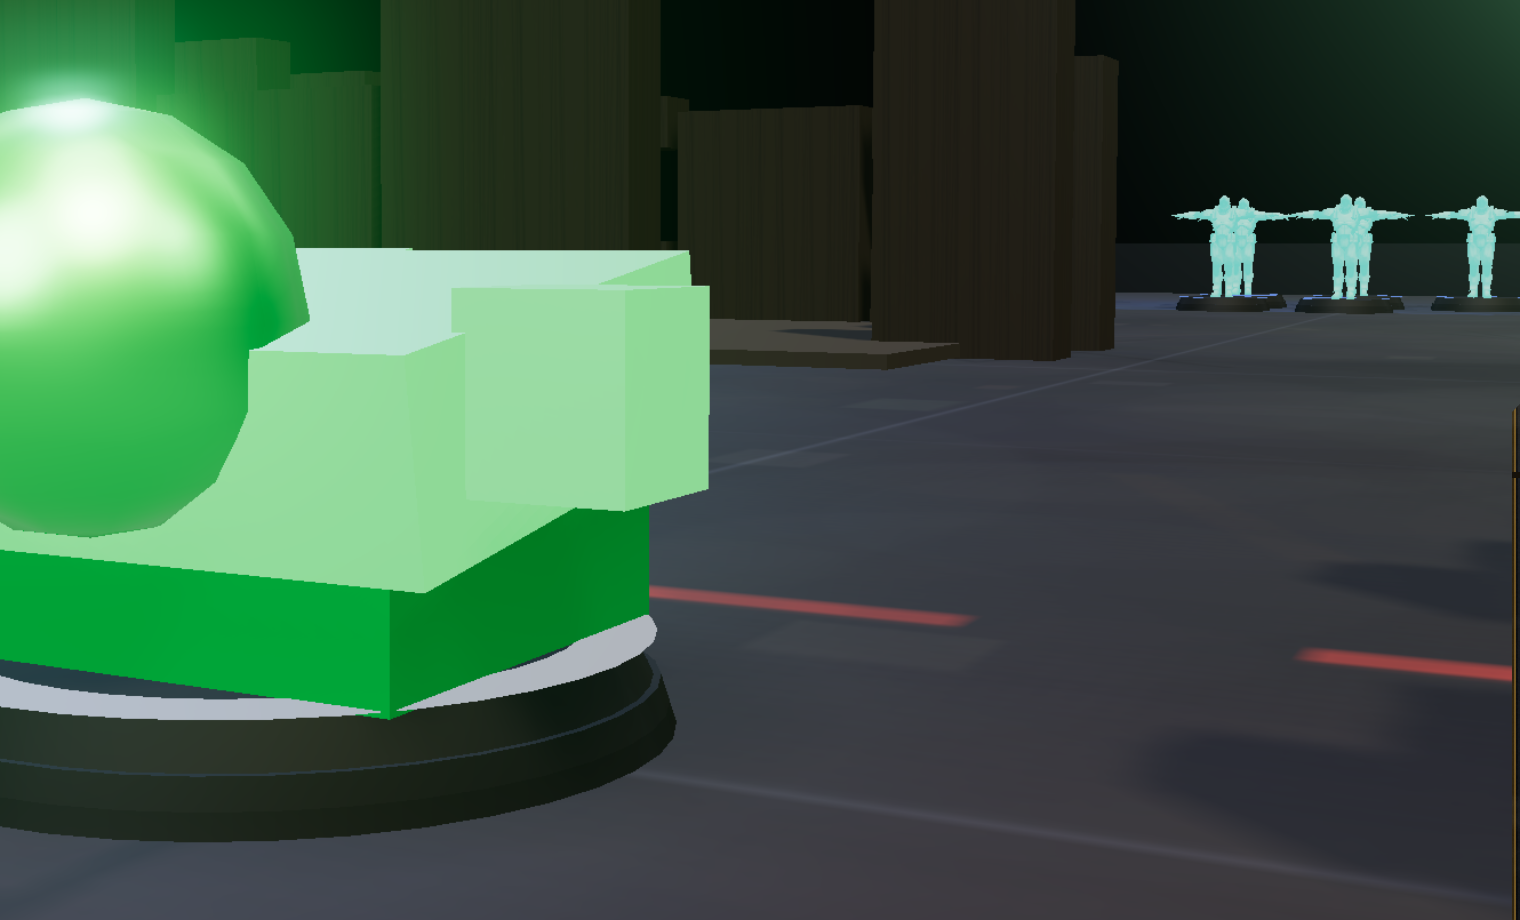
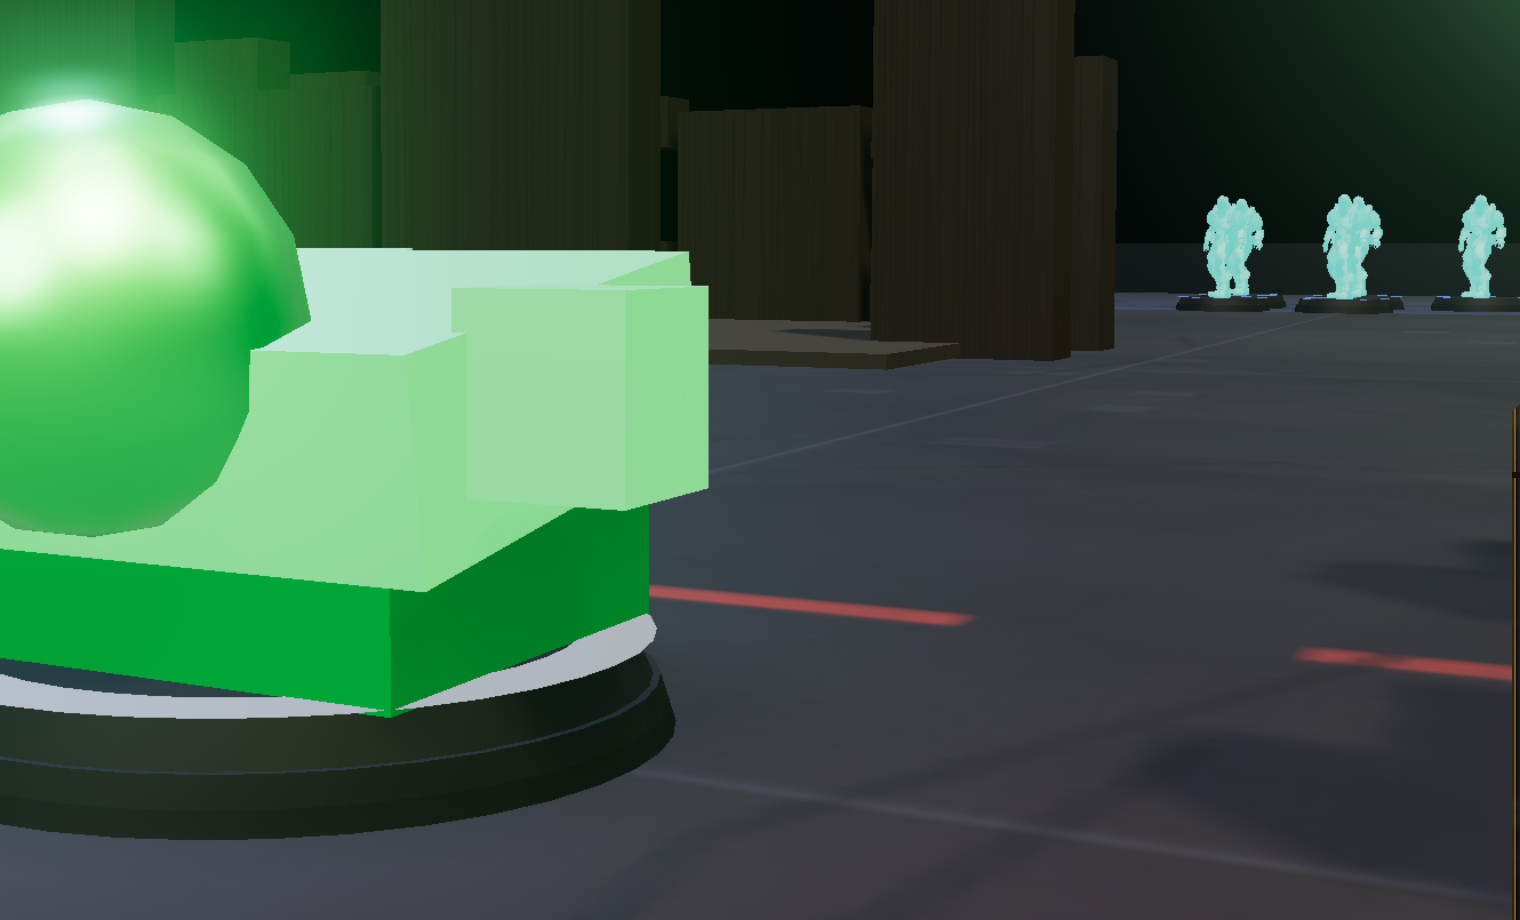
Add subtle perpetual idle animation to model figures (fixes T-pose, adds life)
Per-clone AnimationMixers play an idle clip (time-offset per model), updated from
the render loop; figures now stand/breathe naturally instead of bind-pose T.
Cleaned up on dispose.

Claude-Session: https://claude.ai/code/session_017cP5UXbtBHAKPfxjZDVjCB

diff --git a/src/render/ModelRegistry.ts b/src/render/ModelRegistry.ts
@@ -103,6 +103,19 @@ interface Template {
 export class ModelLibrary {
   private loader = new GLTFLoader();
   private cache = new Map<string, Promise<Template>>();
+  /** Live per-clone mixers driving a subtle idle so figures aren't static T-poses. */
+  private mixers: THREE.AnimationMixer[] = [];
+
+  /** Advance all idle animations; call once per frame from the render loop. */
+  update(dt: number): void {
+    for (const m of this.mixers) m.update(dt);
+  }
+
+  /** Stop & drop all idle mixers (called on scene dispose). */
+  dispose(): void {
+    for (const m of this.mixers) m.stopAllAction();
+    this.mixers.length = 0;
+  }
 
   /**
    * Load (or reuse) the template scene for a URL. The returned object is the
@@ -155,15 +168,16 @@ export class ModelLibrary {
     this.loadTemplate(url)
       .then((template) => {
         const clone = skeletonClone(template.root) as THREE.Object3D;
-        // Pose this clone into a natural idle stance (sample one frame), then
-        // discard the mixer — the bones hold the pose and stay fully static.
+        // Drive a subtle, perpetual idle so figures read as living miniatures
+        // instead of stiff T-poses. Each clone gets its own mixer, offset in
+        // time so a squad doesn't breathe in lockstep. Updated from the render
+        // loop via ModelLibrary.update().
         if (template.poseClip) {
           try {
             const mixer = new THREE.AnimationMixer(clone);
             mixer.clipAction(template.poseClip).play();
-            mixer.update(0.4);
-            mixer.stopAllAction();
-            clone.updateMatrixWorld(true);
+            mixer.setTime(Math.random() * 2); // desync squad members
+            this.mixers.push(mixer);
           } catch {
             /* fall back to bind pose */
           }

diff --git a/src/render/ThreeScene.ts b/src/render/ThreeScene.ts
@@ -2451,6 +2451,7 @@ export class ThreeScene implements SceneController {
     this.updateDeathAnimations(dt);
     this.updateFloatingNumbers(dt);
     this.updateFx(dt);
+    this.modelLibrary.update(dt); // subtle idle animation on real-model figures
 
     // Subtle screen shake: jitter the camera position slightly (post-orbit so
     // it never corrupts the smoothed orbit state). Deterministic-ish wobble.
@@ -2562,6 +2563,7 @@ export class ThreeScene implements SceneController {
   /** Tear down the renderer and listeners. */
   dispose(): void {
     this.disposed = true;
+    this.modelLibrary.dispose();
     cancelAnimationFrame(this.rafId);
     const el = this.renderer?.domElement;
     if (el) {
